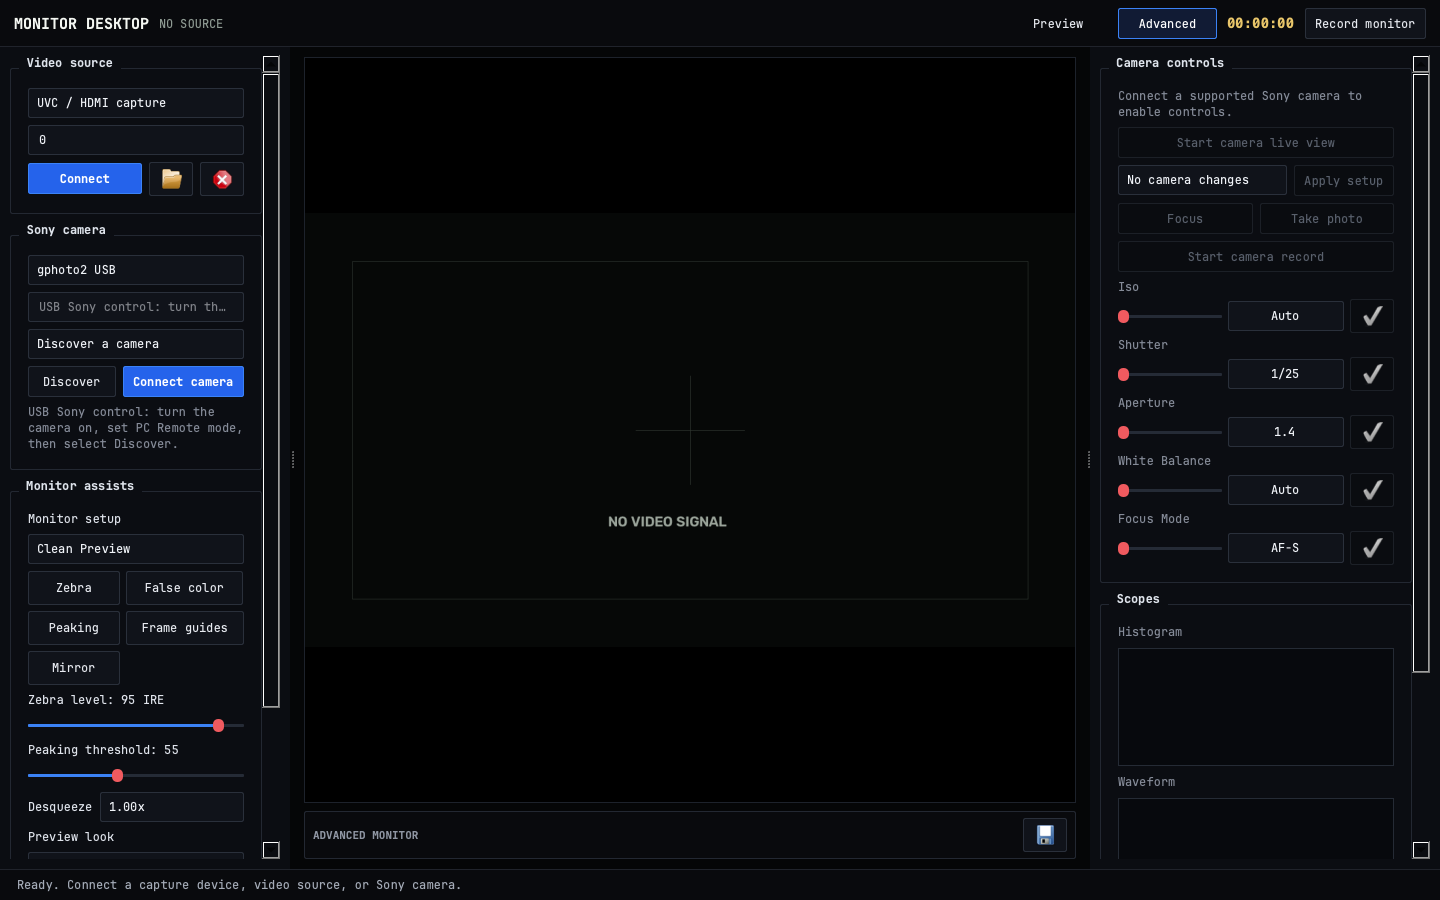
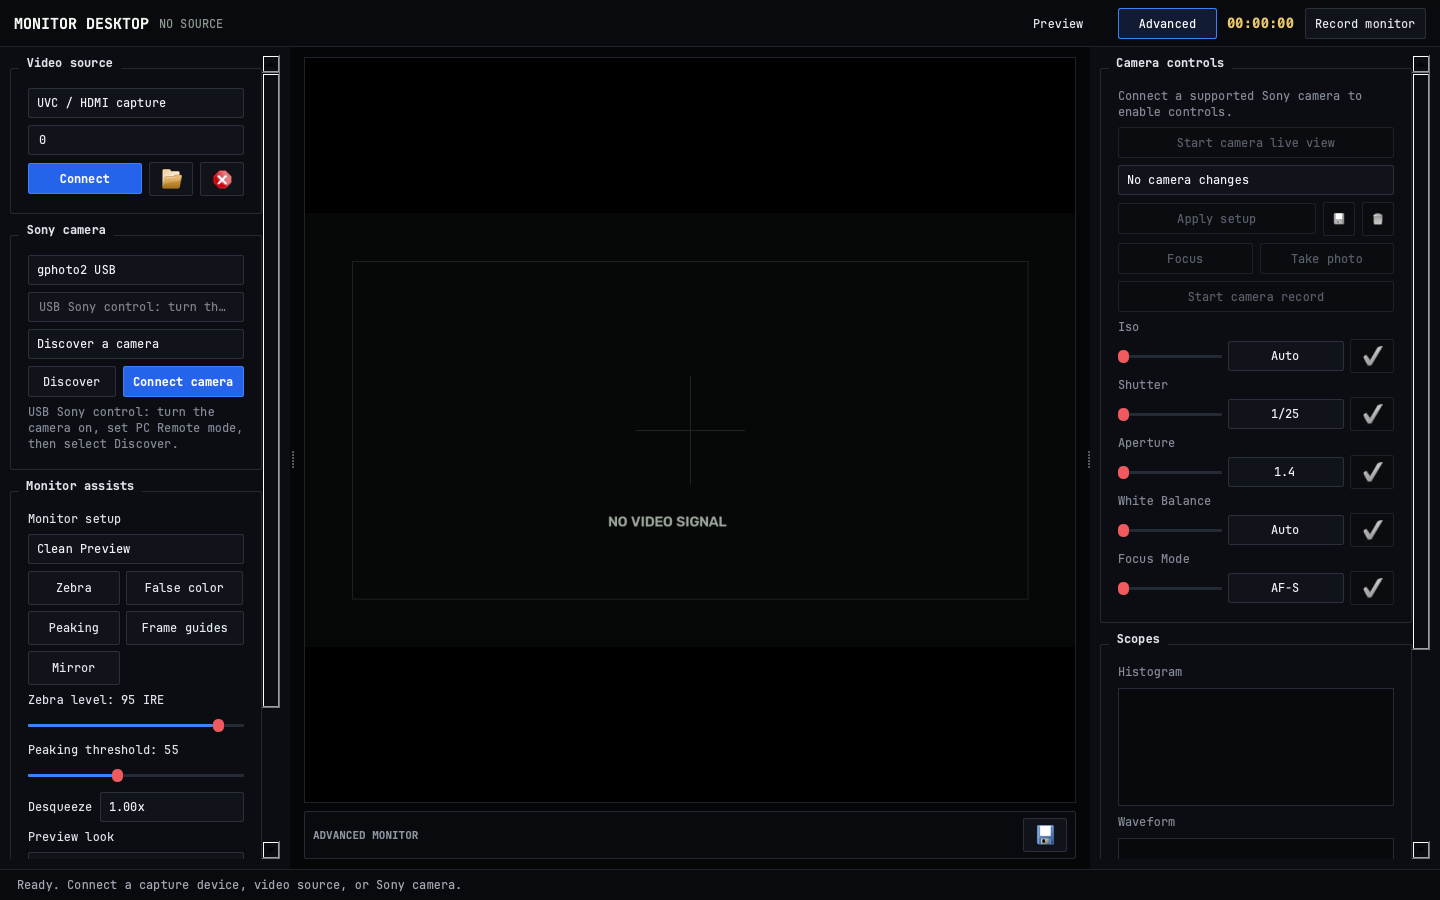
Add persistent custom camera presets

diff --git a/monitor_desktop/app.py b/monitor_desktop/app.py
@@ -3,13 +3,14 @@
 from __future__ import annotations
 
 import datetime as dt
+import json
 import sys
 from pathlib import Path
 from typing import Any
 
 import cv2
 import numpy as np
-from PySide6.QtCore import Qt, QTimer
+from PySide6.QtCore import QStandardPaths, Qt, QTimer
 from PySide6.QtGui import QAction, QFont, QFontDatabase, QImage, QPixmap
 from PySide6.QtWidgets import (
     QApplication,
@@ -20,9 +21,11 @@ from PySide6.QtWidgets import (
     QGridLayout,
     QGroupBox,
     QHBoxLayout,
+    QInputDialog,
     QLabel,
     QLineEdit,
     QMainWindow,
+    QMessageBox,
     QPushButton,
     QScrollArea,
     QSizePolicy,
@@ -112,6 +115,53 @@ CAMERA_PRESETS = {
     "24 fps indoor": {"iso": "800", "shutter": "1/50", "white_balance": "Auto"},
     "24 fps low light": {"iso": "1600", "shutter": "1/50", "white_balance": "Auto"},
 }
+
+CAMERA_SETTING_NAMES = ("iso", "shutter", "aperture", "white_balance", "focus_mode")
+CUSTOM_CAMERA_PRESET_PREFIX = "Custom: "
+
+
+def custom_camera_preset_path() -> Path:
+    config_dir = QStandardPaths.writableLocation(QStandardPaths.StandardLocation.AppConfigLocation)
+    return Path(config_dir) / "camera-presets.json"
+
+
+def _clean_custom_camera_presets(presets: dict[str, dict[str, str]]) -> dict[str, dict[str, str]]:
+    cleaned: dict[str, dict[str, str]] = {}
+    for raw_name, raw_values in presets.items():
+        if not isinstance(raw_name, str) or not isinstance(raw_values, dict):
+            continue
+        name = raw_name.strip()
+        values = {
+            setting: value.strip()
+            for setting, value in raw_values.items()
+            if setting in CAMERA_SETTING_NAMES and isinstance(value, str) and value.strip()
+        }
+        if name and values:
+            cleaned[name] = values
+    return dict(sorted(cleaned.items(), key=lambda item: item[0].casefold()))
+
+
+def load_custom_camera_presets(path: Path) -> dict[str, dict[str, str]]:
+    try:
+        payload = json.loads(path.read_text(encoding="utf-8"))
+    except (OSError, json.JSONDecodeError):
+        return {}
+    stored_presets = payload.get("presets") if isinstance(payload, dict) else None
+    return _clean_custom_camera_presets(stored_presets) if isinstance(stored_presets, dict) else {}
+
+
+def save_custom_camera_presets(path: Path, presets: dict[str, dict[str, str]]) -> None:
+    path.parent.mkdir(parents=True, exist_ok=True)
+    temporary_path = path.with_suffix(f"{path.suffix}.tmp")
+    try:
+        temporary_path.write_text(
+            json.dumps({"version": 1, "presets": _clean_custom_camera_presets(presets)}, indent=2, sort_keys=True) + "\n",
+            encoding="utf-8",
+        )
+        temporary_path.replace(path)
+    except OSError:
+        temporary_path.unlink(missing_ok=True)
+        raise
 
 
 _application_fonts_loaded = False
@@ -269,7 +319,7 @@ class CameraSettingControl(QWidget):
 
 
 class MonitorWindow(QMainWindow):
-    def __init__(self) -> None:
+    def __init__(self, preset_path: Path | None = None) -> None:
         super().__init__()
         load_application_fonts()
         self.setWindowTitle("Monitor Desktop")
@@ -287,6 +337,8 @@ class MonitorWindow(QMainWindow):
         self.camera_recording = False
         self.active_backend: GPhotoBackend | SonyRemoteApiBackend | SonySdkServerBackend | None = None
         self.discovered_devices: list[CameraDevice] = []
+        self.preset_path = preset_path or custom_camera_preset_path()
+        self.custom_camera_presets = load_custom_camera_presets(self.preset_path)
         self.frame_count = 0
         self._auto_connect_scheduled = False
 
@@ -717,14 +769,26 @@ class MonitorWindow(QMainWindow):
         self.live_view_button = QPushButton("Start camera live view")
         self.live_view_button.clicked.connect(self.start_camera_live_view)
         layout.addWidget(self.live_view_button)
-        preset_row = QHBoxLayout()
         self.camera_preset_select = QComboBox()
-        self.camera_preset_select.addItems(CAMERA_PRESETS)
-        preset_row.addWidget(self.camera_preset_select, 1)
+        self._refresh_camera_preset_select()
+        layout.addWidget(self.camera_preset_select)
+        preset_actions = QHBoxLayout()
         self.camera_preset_button = QPushButton("Apply setup")
         self.camera_preset_button.clicked.connect(self.apply_camera_preset)
-        preset_row.addWidget(self.camera_preset_button)
-        layout.addLayout(preset_row)
+        preset_actions.addWidget(self.camera_preset_button, 1)
+        self.save_camera_preset_button = QToolButton()
+        self.save_camera_preset_button.setFixedWidth(32)
+        self.save_camera_preset_button.setIcon(self.style().standardIcon(QStyle.StandardPixmap.SP_DialogSaveButton))
+        self.save_camera_preset_button.setToolTip("Save current camera settings as a custom setup")
+        self.save_camera_preset_button.clicked.connect(self.save_current_camera_preset)
+        preset_actions.addWidget(self.save_camera_preset_button)
+        self.delete_camera_preset_button = QToolButton()
+        self.delete_camera_preset_button.setFixedWidth(32)
+        self.delete_camera_preset_button.setIcon(self.style().standardIcon(QStyle.StandardPixmap.SP_DialogDiscardButton))
+        self.delete_camera_preset_button.setToolTip("Delete selected custom setup")
+        self.delete_camera_preset_button.clicked.connect(self.delete_selected_camera_preset)
+        preset_actions.addWidget(self.delete_camera_preset_button)
+        layout.addLayout(preset_actions)
         action_row = QHBoxLayout()
         self.focus_button = QPushButton("Focus")
         self.focus_button.pressed.connect(lambda: self.run_camera_action("focus"))
@@ -1070,6 +1134,8 @@ class MonitorWindow(QMainWindow):
         self.preview_record_button.setEnabled(enabled)
         self.camera_preset_select.setEnabled(enabled)
         self.camera_preset_button.setEnabled(enabled)
+        self.save_camera_preset_button.setEnabled(enabled)
+        self.delete_camera_preset_button.setEnabled(enabled)
         for control in self.camera_setting_boxes.values():
             control.setEnabled(enabled)
 
@@ -1126,12 +1192,95 @@ class MonitorWindow(QMainWindow):
                 return value
         return None
 
+    def _refresh_camera_preset_select(self, selected: str | None = None) -> None:
+        if selected is None and hasattr(self, "camera_preset_select"):
+            selected = self.camera_preset_select.currentText()
+        names = [*CAMERA_PRESETS, *(f"{CUSTOM_CAMERA_PRESET_PREFIX}{name}" for name in self.custom_camera_presets)]
+        was_blocked = self.camera_preset_select.blockSignals(True)
+        self.camera_preset_select.clear()
+        self.camera_preset_select.addItems(names)
+        if selected in names:
+            self.camera_preset_select.setCurrentText(selected)
+        self.camera_preset_select.blockSignals(was_blocked)
+
+    def _selected_custom_camera_preset(self) -> tuple[str, dict[str, str]] | None:
+        selected = self.camera_preset_select.currentText()
+        if not selected.startswith(CUSTOM_CAMERA_PRESET_PREFIX):
+            return None
+        name = selected.removeprefix(CUSTOM_CAMERA_PRESET_PREFIX)
+        values = self.custom_camera_presets.get(name)
+        return (name, values) if values else None
+
+    def _camera_preset_values(self) -> tuple[str, dict[str, str]] | None:
+        selected = self.camera_preset_select.currentText()
+        if selected in CAMERA_PRESETS:
+            return selected, CAMERA_PRESETS[selected]
+        return self._selected_custom_camera_preset()
+
+    def _write_custom_camera_presets(self) -> bool:
+        try:
+            save_custom_camera_presets(self.preset_path, self.custom_camera_presets)
+        except OSError as exc:
+            self._notify(f"Could not save custom setups: {exc}", error=True)
+            return False
+        return True
+
+    def save_current_camera_preset(self) -> None:
+        if self.active_backend is None:
+            self._notify("Connect a camera before saving a custom setup.", error=True)
+            return
+        values = {
+            setting: control.currentText()
+            for setting, control in self.camera_setting_boxes.items()
+            if control.isEnabled() and control.currentText()
+        }
+        if not values:
+            self._notify("This camera has no writable settings to save.", error=True)
+            return
+        name, accepted = QInputDialog.getText(self, "Save custom setup", "Setup name")
+        name = name.strip()
+        if not accepted or not name:
+            return
+        existing_name = next((item for item in self.custom_camera_presets if item.casefold() == name.casefold()), name)
+        updating = existing_name in self.custom_camera_presets
+        self.custom_camera_presets[existing_name] = values
+        if not self._write_custom_camera_presets():
+            return
+        selected = f"{CUSTOM_CAMERA_PRESET_PREFIX}{existing_name}"
+        self.custom_camera_presets = load_custom_camera_presets(self.preset_path)
+        self._refresh_camera_preset_select(selected)
+        self._notify(f"{'Updated' if updating else 'Saved'} custom setup: {existing_name}.")
+
+    def delete_selected_camera_preset(self) -> None:
+        selected = self._selected_custom_camera_preset()
+        if selected is None:
+            self._notify("Choose a custom setup to delete.", error=True)
+            return
+        name, _ = selected
+        choice = QMessageBox.question(
+            self,
+            "Delete custom setup",
+            f"Delete custom setup '{name}'?",
+            QMessageBox.StandardButton.Yes | QMessageBox.StandardButton.No,
+            QMessageBox.StandardButton.No,
+        )
+        if choice != QMessageBox.StandardButton.Yes:
+            return
+        del self.custom_camera_presets[name]
+        if not self._write_custom_camera_presets():
+            return
+        self._refresh_camera_preset_select()
+        self._notify(f"Deleted custom setup: {name}.")
+
     def apply_camera_preset(self) -> None:
         if self.active_backend is None:
             self._notify("Connect a camera before applying a camera setup.", error=True)
             return
-        name = self.camera_preset_select.currentText()
-        requested = CAMERA_PRESETS[name]
+        preset = self._camera_preset_values()
+        if preset is None:
+            self._notify("Choose a camera setup to apply.", error=True)
+            return
+        name, requested = preset
         if not requested:
             self._notify("Camera setup makes no changes.")
             return

diff --git a/tests/test_app.py b/tests/test_app.py
@@ -1,7 +1,9 @@
 from __future__ import annotations
 
 import os
+import tempfile
 import unittest
+from pathlib import Path
 from unittest.mock import patch
 
 import numpy as np
@@ -11,7 +13,7 @@ os.environ.setdefault("QT_QPA_PLATFORM", "offscreen")
 from PySide6.QtGui import QFontDatabase
 from PySide6.QtWidgets import QApplication
 
-from monitor_desktop.app import CameraSettingControl, MonitorWindow, ScopeView
+from monitor_desktop.app import CameraSettingControl, MonitorWindow, ScopeView, load_custom_camera_presets, save_custom_camera_presets
 from monitor_desktop.backends import CameraDevice
 
 
@@ -98,6 +100,64 @@ class ScopeViewTests(unittest.TestCase):
         control.value_input.setText("333")
         control.apply_current()
         self.assertEqual(invalid, ["iso"])
+
+    def test_custom_camera_presets_round_trip_only_supported_setting_values(self) -> None:
+        with tempfile.TemporaryDirectory() as directory:
+            path = Path(directory) / "camera-presets.json"
+            save_custom_camera_presets(
+                path,
+                {
+                    "Desk": {"iso": "800", "shutter": "1/50", "unsupported": "ignored"},
+                    "": {"iso": "100"},
+                },
+            )
+
+            self.assertEqual(load_custom_camera_presets(path), {"Desk": {"iso": "800", "shutter": "1/50"}})
+
+    def test_saving_custom_camera_preset_persists_current_camera_controls(self) -> None:
+        with tempfile.TemporaryDirectory() as directory:
+            path = Path(directory) / "camera-presets.json"
+            window = MonitorWindow(path)
+            window.active_backend = object()  # type: ignore[assignment]
+            window._set_camera_controls_enabled(True)
+            window.camera_setting_boxes["iso"].setCurrentText("800")
+            window.camera_setting_boxes["shutter"].setCurrentText("1/50")
+
+            with patch("monitor_desktop.app.QInputDialog.getText", return_value=("Desk", True)):
+                window.save_current_camera_preset()
+
+            self.assertEqual(window.camera_preset_select.currentText(), "Custom: Desk")
+            self.assertEqual(load_custom_camera_presets(path)["Desk"]["iso"], "800")
+            window.close()
+
+            reloaded = MonitorWindow(path)
+            self.assertIn("Custom: Desk", [reloaded.camera_preset_select.itemText(index) for index in range(reloaded.camera_preset_select.count())])
+            reloaded.close()
+
+    def test_custom_camera_preset_applies_only_matching_values(self) -> None:
+        class FakeBackend:
+            name = "Test camera"
+
+            def __init__(self) -> None:
+                self.applied: list[tuple[str, str]] = []
+
+            def set_property(self, name: str, value: str) -> str:
+                self.applied.append((name, value))
+                return f"Set {name}"
+
+        with tempfile.TemporaryDirectory() as directory:
+            window = MonitorWindow(Path(directory) / "camera-presets.json")
+            backend = FakeBackend()
+            window.active_backend = backend  # type: ignore[assignment]
+            window._set_camera_controls_enabled(True)
+            window.custom_camera_presets = {"Desk": {"iso": "800", "shutter": "1/50", "aperture": "99"}}
+            window._refresh_camera_preset_select("Custom: Desk")
+
+            window.apply_camera_preset()
+
+            self.assertEqual(backend.applied, [("iso", "800"), ("shutter", "1/50")])
+            self.assertIn("Skipped: aperture", window.status_label.text())
+            window.close()
 
     def test_auto_connect_uses_a_single_discovered_usb_camera(self) -> None:
         class FakeGPhotoBackend:

diff --git a/monitor_desktop/__init__.py b/monitor_desktop/__init__.py
@@ -1,4 +1,4 @@
 """Monitor Desktop package."""
 """Monitor Desktop camera monitor package."""
 
-__version__ = "0.2.1"
+__version__ = "0.2.2"

diff --git a/README.md b/README.md
@@ -46,7 +46,7 @@ make run
 - **Video sources:** UVC and HDMI capture devices, webcams, local video files, RTSP, HTTP, and MJPEG streams supported by OpenCV.
 - **Monitor assists:** Zebra, false color, focus peaking, frame guides, mirror, anamorphic desqueeze, histogram, waveform, and vectorscope.
 - **Looks and LUTs:** Neutral, Warm Film, Soft Matte, Teal and Amber, and Monochrome monitoring looks, plus custom `.cube` LUT preview and strength control.
-- **Presets:** Clean Preview, Focus Check, Exposure Check, Framing, and Director's View monitor setups, plus opt-in camera setups for compatible bodies.
+- **Presets:** Clean Preview, Focus Check, Exposure Check, Framing, and Director's View monitor setups, plus opt-in camera setups and persistent named custom camera setups for compatible bodies.
 - **Camera controls:** Sliders scrub through exact camera-supported ISO, shutter, aperture, white balance, and focus values; the value field beside each slider supports direct entry.
 - **Local output:** Monitor-feed recording and PNG frame export are written locally under `recordings/`.
 
@@ -97,6 +97,7 @@ This is Sony's earlier JSON-RPC API. For current desktop SDK support, run a comp
 - Capture cards are the most universal route for clean, low-latency monitoring. Sony control remains on the camera when using HDMI-only capture.
 - Built-in looks are creative monitoring looks, not color-managed replacements for a camera-specific Log-to-Rec.709 transform. Load the matching technical `.cube` LUT when accurate log monitoring is required.
 - The app is local-first: footage, LUT files, recordings, and stills stay on the operator's computer.
+- In Advanced mode, use the save control beside **Apply setup** to capture the current camera's writable quick settings as a named custom setup. Custom setups persist on the workstation and safely skip values unsupported by a different connected body.
 
 ## Development
 
